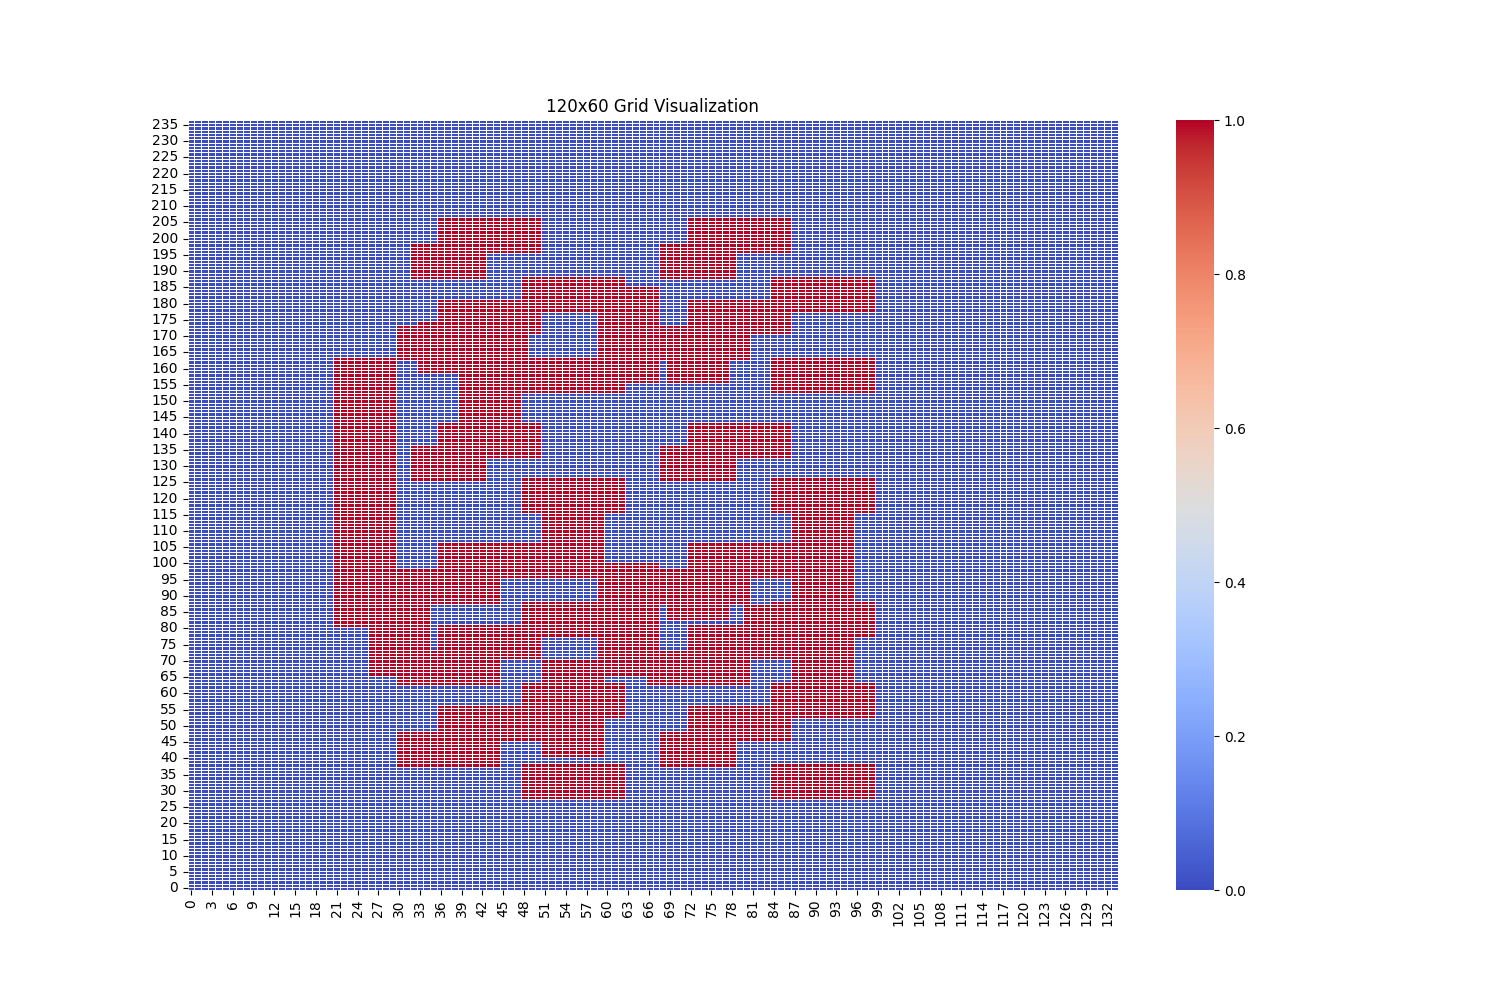
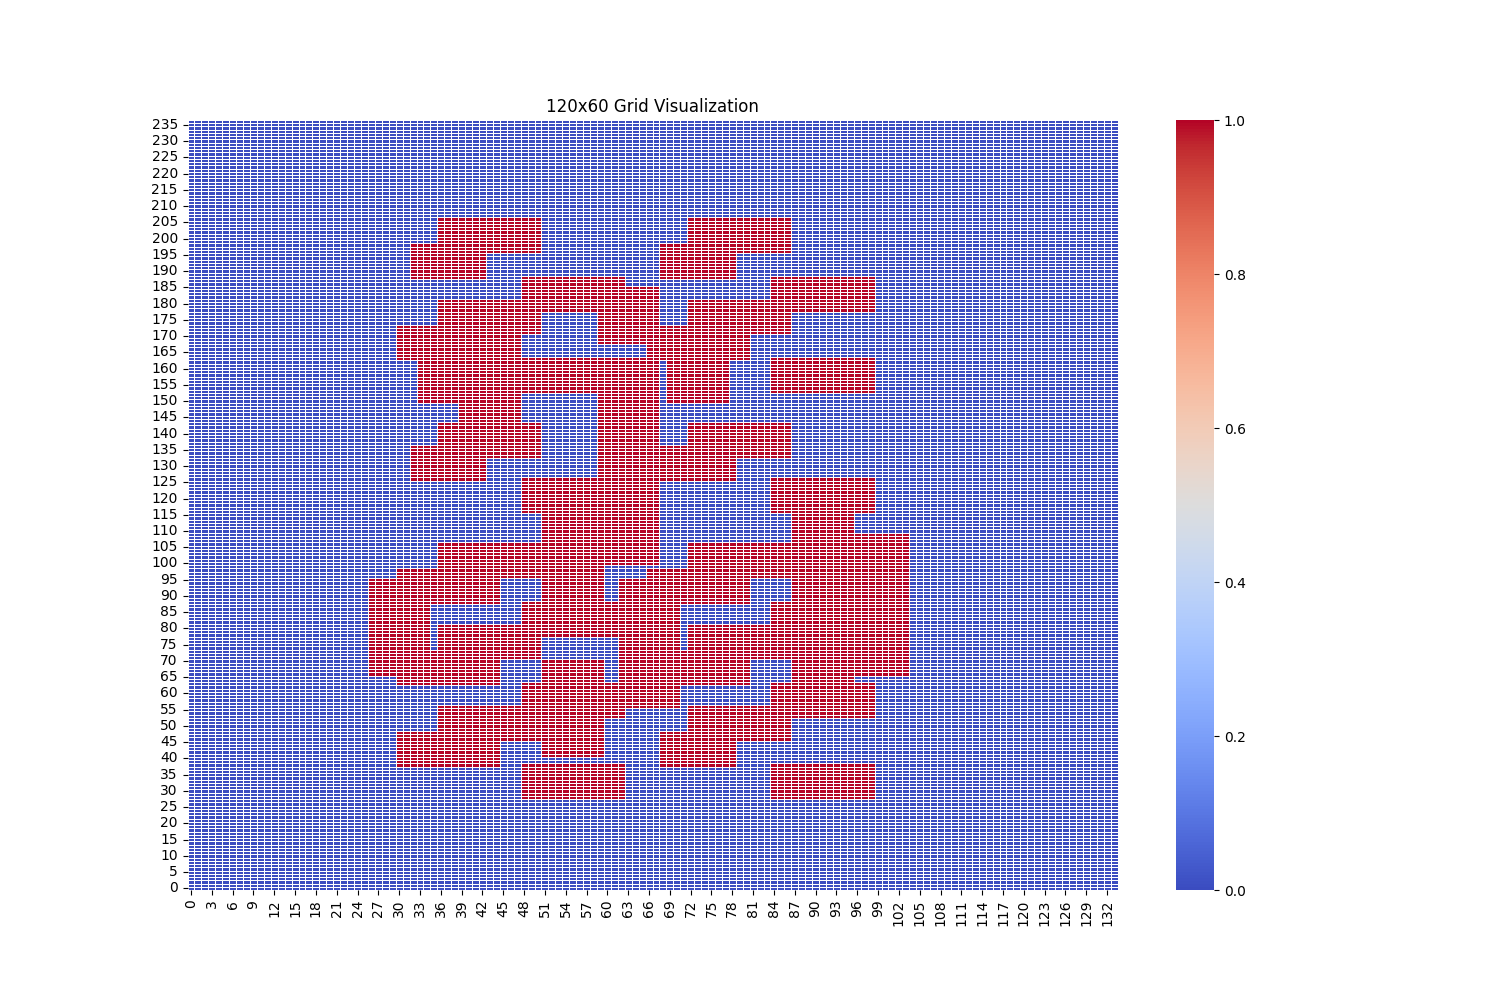
Working on single connections, and adding pin nets and label

diff --git a/src/astar/a_star.py b/src/astar/a_star.py
@@ -14,6 +14,7 @@
 from itertools import combinations
 
 import pulp
+from numpy.matlib import empty
 from traces.trace_generate import segment_path
 from circuit.circuit_components import CircuitCell, Pin
 from logger.logger import get_a_logger
@@ -66,13 +67,11 @@ def reconstruct_path(came_from, current):
 
 
 def a_star(grid_vertical, grid_horizontal, start, goals, minimum_segment_length):
-    minimum_seg_length = minimum_segment_length  # For debugging, you might set this to 1.
+
     goal_indices = {goal: i for i, goal in enumerate(goals)}
     all_visited = (1 << len(goals)) - 1
     height = len(grid_vertical)
     width = len(grid_vertical[0]) if height > 0 else 0
-    # You can set this higher than minimum_segment_length to enforce a "wider swing" into the goal.
-    min_seg_after_goal = minimum_segment_length
 
     def in_bounds(pos):
         x, y = pos
@@ -86,7 +85,7 @@ def a_star(grid_vertical, grid_horizontal, start, goals, minimum_segment_length)
         else:
             return grid_horizontal[y][x] == 0
 
-    # Movements: up, down, left, right.
+    # Allowed movements: up, down, left, right.
     directions = [(0, -1), (0, 1), (-1, 0), (1, 0)]
 
     open_set = PriorityQueue()
@@ -96,12 +95,12 @@ def a_star(grid_vertical, grid_horizontal, start, goals, minimum_segment_length)
         init_mask |= (1 << goal_indices[start])
     g_start = 0
     f_start = g_start + heuristic(start, init_mask, goals)
-    # For the starting state: no previous direction (None), segment length 0, and no reversal.
+    # Initial state: no previous direction (None), segment length 0.
     open_set.push((g_start, start, init_mask, [start], None, 0, init_after_goal, False), f_start)
 
     visited_states = set()
 
-    # Helper to cap the segment length in state keys.
+    # Helper: for the state key, we cap the segment length to the minimum.
     def cap_seg(seg):
         return seg if seg < minimum_segment_length else minimum_segment_length
 
@@ -112,81 +111,97 @@ def a_star(grid_vertical, grid_horizontal, start, goals, minimum_segment_length)
             continue
         visited_states.add(state_key)
 
-        # Goal test: all goals have been visited.
+        # If all goals have been visited, return the path.
         if mask == all_visited:
             return path, g
 
         x, y = current
+        # Determine edges traversed so far.
+        edge_set = set(zip(path, path[1:]))
+
         for d in directions:
             dx, dy = d
             neighbor = (x + dx, y + dy)
             if not (in_bounds(neighbor) and is_walkable(neighbor, current)):
                 continue
 
-            # Initialize prospective values.
+            # Initialize prospective state variables.
             prospective_last_dir = None
             prospective_seg_len = 0
             prospective_last_was_reversal = False
 
             if last_dir is None:
-                # Starting state: simply set the new direction.
+                # At the start: choose a direction and begin a new segment.
                 prospective_last_dir = d
                 prospective_seg_len = 1
             else:
                 if d == last_dir:
                     # Continuing in the same direction.
                     prospective_last_dir = last_dir
-                    prospective_seg_len = seg_len + 1
+                    edge = (current, neighbor)
+                    edge_rev = (neighbor, current)
+                    # If this edge is already in our path, we are retracing:
+                    # do not increase segment length.
+                    if edge in edge_set or edge_rev in edge_set:
+                        prospective_seg_len = seg_len
+                    else:
+                        prospective_seg_len = seg_len + 1
                     prospective_last_was_reversal = False
                 elif d[0] == -last_dir[0] and d[1] == -last_dir[1]:
-                    # This move is a reversal.
-                    # Allow reversal only if:
-                    # 1. We're after a goal,
-                    # 2. The current segment length meets the minimum,
-                    # 3. The last move was not already a reversal.
-                    if not after_goal or seg_len < min_seg_after_goal or last_was_reversal:
+                    # A reversal move is allowed only if:
+                    # 1. We're coming after a goal,
+                    # 2. The current segment has reached minimum length,
+                    # 3. The previous move was not already a reversal.
+                    if not after_goal or seg_len < minimum_segment_length or last_was_reversal:
                         continue
                     prospective_last_dir = d
                     prospective_seg_len = 1
                     prospective_last_was_reversal = True
                 else:
-                    # A turn that is not a reversal (i.e. a perpendicular move).
-                    required_min = min_seg_after_goal if after_goal else minimum_segment_length
-                    if seg_len < required_min:
-                        continue  # Not allowed to turn yet.
+                    # Turning into a new segment.
+                    # You can only turn if your current (non-retracing) segment
+                    # is at least minimum_segment_length.
+                    if seg_len < minimum_segment_length:
+                        continue
                     prospective_last_dir = d
                     prospective_seg_len = 1
                     prospective_last_was_reversal = False
 
-            # Enforce the minimum segment length rule when approaching a goal.
+            # When moving into a goal cell, the move is allowed only if the
+            # current segment (or new segment being formed) meets the minimum length.
+            # Also, reaching a goal resets the segment: segment length goes to 0 and direction to None.
             if neighbor in goal_indices:
-                if prospective_seg_len < min_seg_after_goal:
+                if prospective_seg_len < minimum_segment_length:
                     continue
+                prospective_seg_len = 0
+                prospective_last_dir = None
 
-            # Update visited goals.
+            # Update the visited goals mask.
             new_mask = mask
             new_after_goal = after_goal
             if neighbor in goal_indices:
                 new_mask |= (1 << goal_indices[neighbor])
                 new_after_goal = True
 
-            new_g = g + 1
+            # Compute cost: if moving along a retraced edge, cost increment is 0.
+            edge = (current, neighbor)
+            edge_rev = (neighbor, current)
+            cost_increment = 0 if (edge in edge_set or edge_rev in edge_set) else 1
+
+            new_g = g + cost_increment
             new_f = new_g + heuristic(neighbor, new_mask, goals)
             open_set.push(
-                (
-                    new_g,
-                    neighbor,
-                    new_mask,
-                    path + [neighbor],
-                    prospective_last_dir,
-                    prospective_seg_len,
-                    new_after_goal,
-                    prospective_last_was_reversal
-                ),
+                (new_g, neighbor, new_mask, path + [neighbor],
+                 prospective_last_dir, prospective_seg_len, new_after_goal, prospective_last_was_reversal),
                 new_f
             )
 
     return None, None
+
+
+
+
+
 
 
 
@@ -255,6 +270,8 @@ def run_multiple_astar_multiple_times(grid_vertical, grid_horizontal,goals, port
         return path
 
 
+
+
 def initiate_astar(grid, connections, components, port_scaled_coordinates, port_coordinates, net_list, run_multiple_astar, routing_sizing_area):
     logger.info("Starting Initiate A*")
     grid_vertical = [row[:] for row in grid[:]]
@@ -264,8 +281,10 @@ def initiate_astar(grid, connections, components, port_scaled_coordinates, port_
     seg_list = {}
 
 
-    for net in net_list.applicable_nets:
-
+    for net in net_list.applicable_nets + net_list.pin_nets :
+        #Skipping these nets, that are handled by other routing algorithm
+        if "VDD" in net or "VSS" in net:
+            continue
         goal_nodes = []
         real_goal_nodes = []
         for con in connections:
@@ -305,7 +324,9 @@ def initiate_astar(grid, connections, components, port_scaled_coordinates, port_
 
        #Make goal nodes walkable
         grid_vertical, grid_horizontal = _lock_or_unlock_port(grid_vertical, grid_horizontal, goal_nodes, port_scaled_coordinates , routing_sizing_area,0)
+        if not goal_nodes:
 
+            print(goal_nodes)
         p = run_multiple_astar_multiple_times(grid_vertical, grid_horizontal, goal_nodes, routing_sizing_area.port_width_scaled ,run_multiple_astar)
 
         path.setdefault(net, {})["goal_nodes"] = goal_nodes
@@ -313,57 +334,33 @@ def initiate_astar(grid, connections, components, port_scaled_coordinates, port_
         #Make goal nodes non-walkable
         grid_vertical, grid_horizontal= _lock_or_unlock_port(grid_vertical, grid_horizontal, goal_nodes,port_scaled_coordinates,routing_sizing_area,1)
 
-        seg = segment_path(p)
-        path.setdefault(net, {})["segments"] = seg
+        segments = segment_path(p)
+        path.setdefault(net, {})["segments"] = segments
         if net not in seg_list:
             seg_list[net] = []
 
 
-        for s in seg:
-            seg_list[net].append(s)
+        for seg in segments:
+            seg_list[net].append(seg)
 
         for seg in seg_list[net]:
             # vertical
-            direction = None
-            other_direction = None
+
             if seg[0][0] - seg[-1][0] == 0:
-                if seg[0][1]>seg[-1][1]:
-                    direction = -1
-                else:
-                    direction = 1
-                if direction == 1:
-                    other_direction = -1
-                else:
-                    other_direction = 1
-
-
-
                 for x, y in seg:
                     for i in range(-routing_sizing_area.trace_width_scaled, routing_sizing_area.trace_width_scaled+1):
-                        grid_vertical[y + 1 * other_direction][x + i] = 1
-                        grid_vertical[y + 2 * other_direction][x + i] = 1
-                        grid_vertical[y][x + i] = 1
-                        grid_vertical[y+1*direction][x + i] = 1
-                        grid_vertical[y+2*direction][x + i] = 1
+                        for p in range (-2, 3):
+
+                            grid_vertical[y +p ][x + i] = 1
+
 
             # horizontal
             if seg[0][1] - seg[-1][1] == 0:
-                if seg[0][1] > seg[-1][1]:
-                    direction = -1
-                else:
-                    direction = 1
-                if direction == 1:
-                    other_direction = -1
-                else:
-                    other_direction = 1
-
                 for x, y in seg:
                     for i in range(-routing_sizing_area.trace_width_scaled, routing_sizing_area.trace_width_scaled+1):
-                        grid_horizontal[y + i][x + 1 * other_direction] = 1
-                        grid_horizontal[y + i][x + 2 * other_direction] = 1
-                        grid_horizontal[y + i][x] = 1
-                        grid_horizontal[y + i][x+ 1*direction] = 1
-                        grid_horizontal[y + i][x+2*direction] = 1
+                        for p in range(-2, 3):
+                            grid_horizontal[y + i][x+p] = 1
+
 
     heatmap_test(grid_vertical, "grid_vertical_heatmap")
     heatmap_test(grid_horizontal, "grid_horizontal_heatmap")

diff --git a/src/connections/connections.py b/src/connections/connections.py
@@ -113,18 +113,17 @@ class ConnectionLists:
                             not isinstance(component_2, (Pin,CircuitCell)),
                             component_1 != component_2,
                             component_1.cell == component_2.cell
-                              ]
+                            ]
 
                 if all(conditions):
-
                     for port_1 in component_1.schematic_connections:
                         if port_1 == "B":
                             continue
 
-                        element_appended = False
                         for port_2 in component_2.schematic_connections:
                             if port_2 == "B":
                                 continue
+
                             if component_1.schematic_connections[port_1] == component_2.schematic_connections[port_2]:
                                 net = component_1.schematic_connections[port_1]
                                 cell = component_1.cell
@@ -139,12 +138,23 @@ class ConnectionLists:
                                 if not any(isinstance(obj, Connection) and obj == target for target in entry for obj in self.component_connections):
 
                                     self.component_connections.append(entry[0])
-                                    element_appended = True
+
+    def _single_connection_list(self):
+        in_connection_list = False
+        for component in self.components:
+            if not isinstance(component, (Pin, CircuitCell)):
+                for port in component.schematic_connections:
+                    for con in self.component_connections:
 
 
+                        if (con.start_comp_id == str(component.number_id) and port in con.start_area) or (con.end_comp_id == str(component.number_id) and port in con.end_area):
+                            in_connection_list = True
+                            break
+                    if not in_connection_list:
+                        self.single_connection.append(Connection(component.number_id, port, component.name,"" ,"" ,"" , component.cell, component.schematic_connections[port]))
+                        in_connection_list = False
 
-                        if not element_appended:
-                            self.single_connection.append(Connection(component_1.number_id, port_1, component_1.name,"", "", "", component_1.cell, component_1.schematic_connections[port_1]))
+
 
     def _overlap_transistors(self):
         n_transistors = []
@@ -182,6 +192,7 @@ class ConnectionLists:
 
         self._local_connection_list()
         self._connection_list()
+        self._single_connection_list()
         self._overlap_transistors()
         self._get_net_list()
 

diff --git a/src/traces/trace_generate.py b/src/traces/trace_generate.py
@@ -233,12 +233,16 @@ def initiate_write_traces(components, all_paths,  scale_factor, trace_width, use
 
 
 
-
-
-
         mapped_rectangles = map_segments_to_rectangles(path_info=all_paths[net],
-                                                               scale_factor=scale_factor,
-                                                               used_area=used_area)
+                                                           scale_factor=scale_factor,
+                                                           used_area=used_area)
+
+
+
+
+
+
+
 
 
         components.append(_write_traces(mapped_rectangles, trace_width, index, net))

diff --git a/src/main.py b/src/main.py
@@ -91,9 +91,14 @@ def main():
     # Algorithms
     con_obj = ConnectionLists(components)
     single_connection, local_connections, connections, overlap_dict, net_list = con_obj.initialize_connections()
+    print("Connections")
 
-
-
+    for con in connections:
+        print(con)
+    print("SINGLE CONNECRIONs")
+    for c in single_connection:
+        print(c)
+    return
 
    # result = LinearOptimizationSolver(components, connections, local_connections, grid_size, overlap_dict, time_limit)
    # components = result.initiate_solver()
